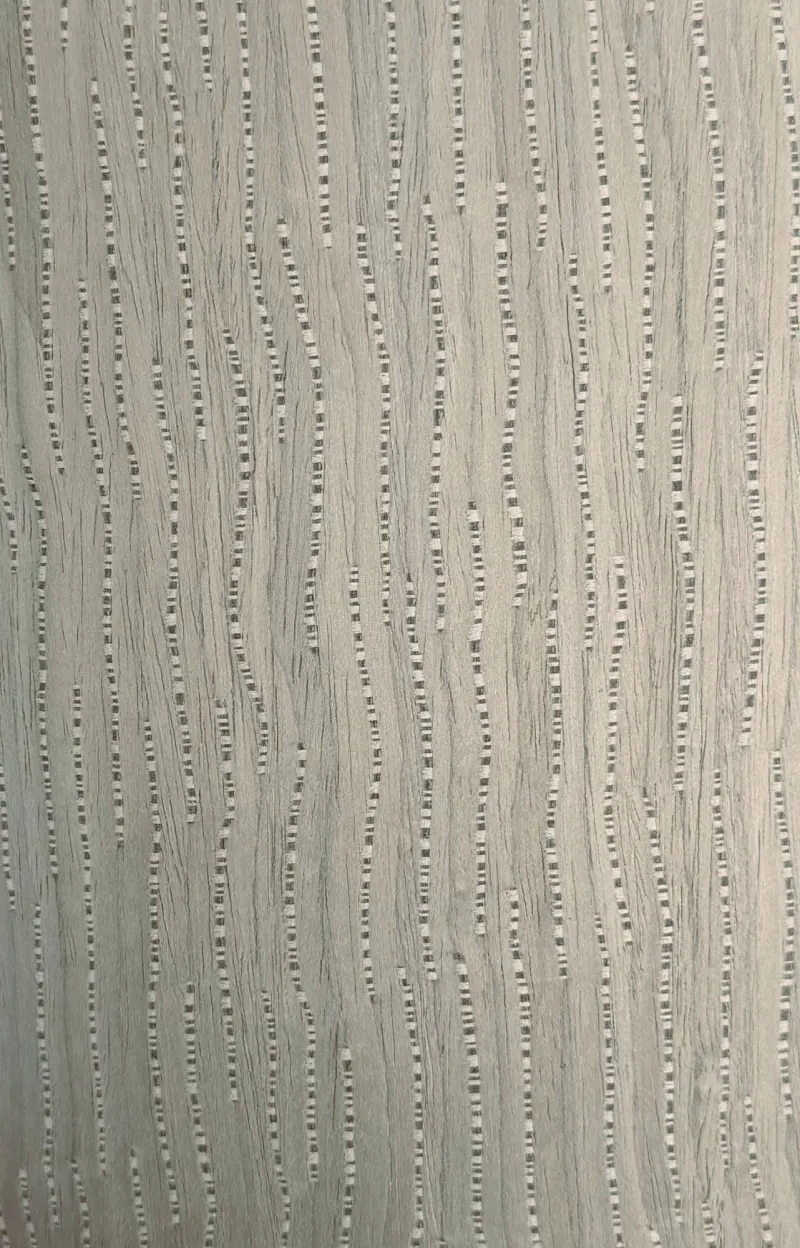
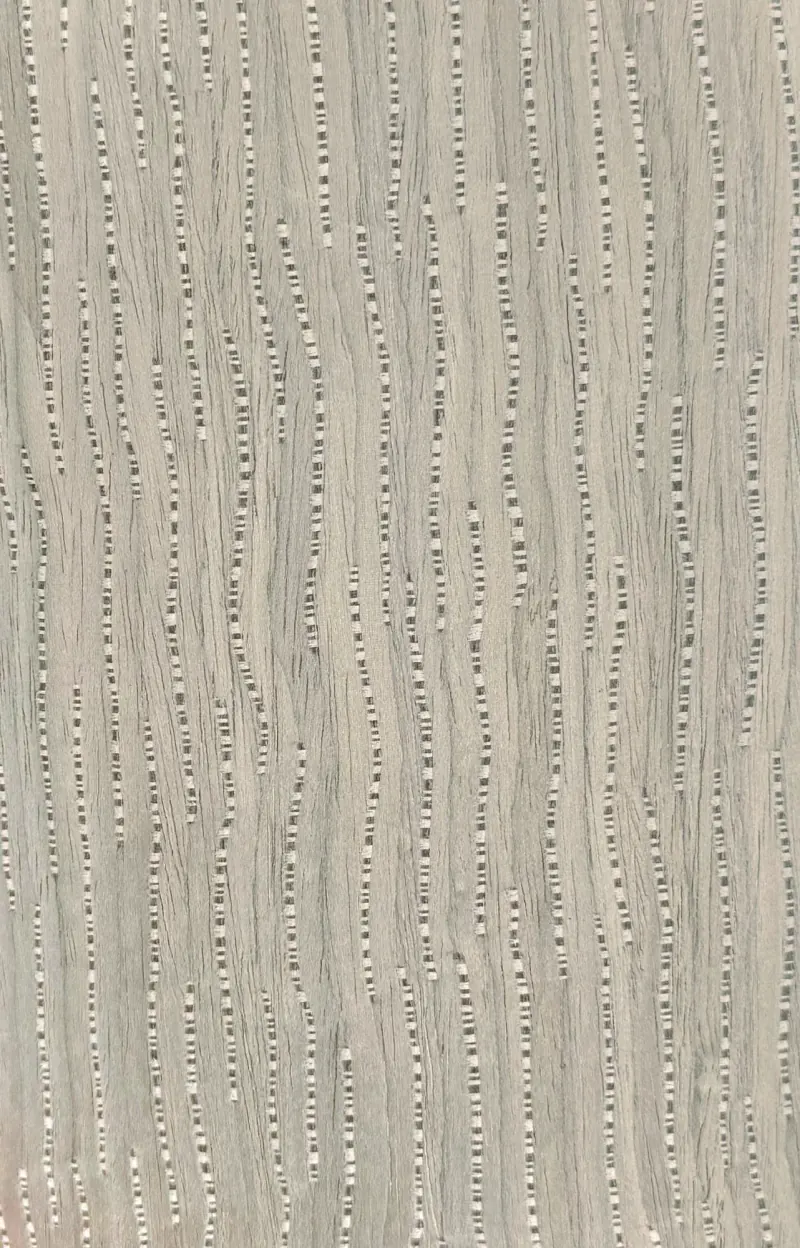
Even out the lighting on the Pearl Stripes swatch

diff --git a/src/data.js b/src/data.js
@@ -1439,7 +1439,7 @@ export const PRODUCTS = [
     species: 'Engineered Wood',
     idSpecies: 'Kayu Rekayasa',
     hiResImage: '/assets/hires/BERLIN PEARL STRIPES.png',
-    image: '/assets/image/BERLIN PEARL STRIPES.webp?v=3',
+    image: '/assets/image/BERLIN PEARL STRIPES.webp?v=4',
     bestFor: 'Avant-garde interiors, feature bar fronts, unique architectural doors',
     idBestFor: 'interior avant-garde, muka bar aksen, pintu arsitektural unik',
     finish: 'Matte',
